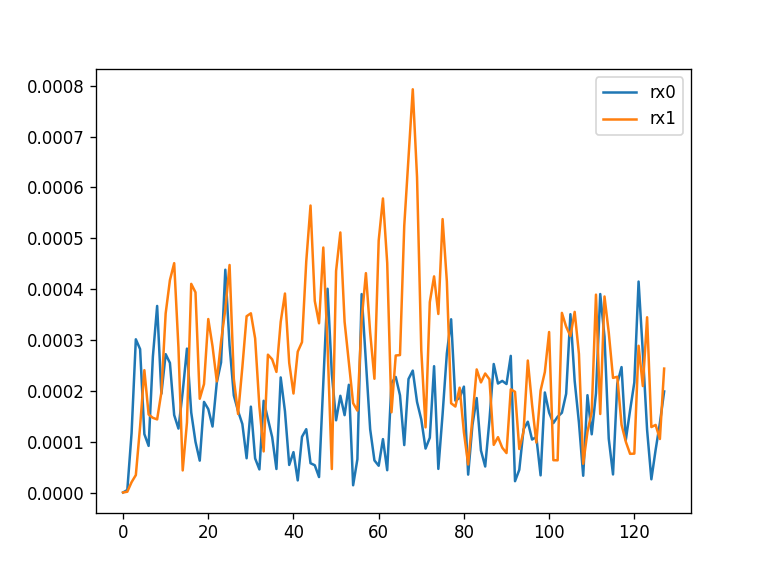
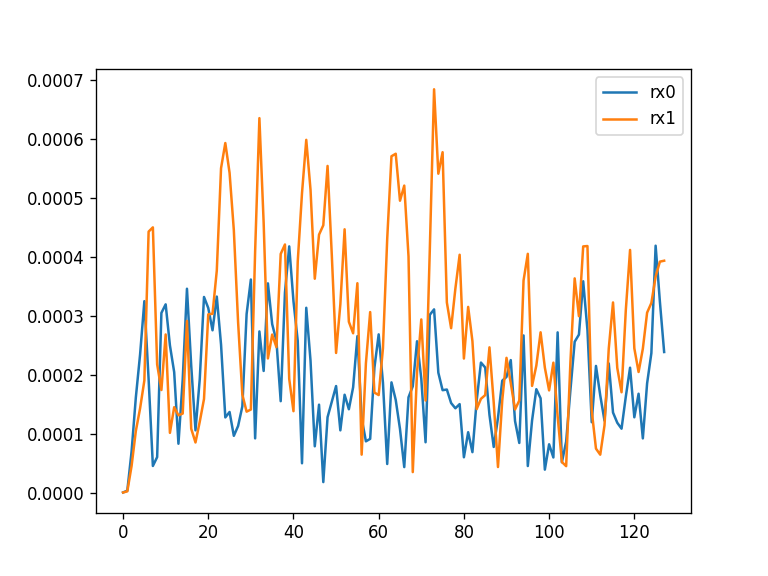
successfully generated trigger wave

diff --git a/marcos_client/experimentController.py b/marcos_client/experimentController.py
@@ -143,7 +143,7 @@ class ExperimentController(exp.Experiment):
     def compile(self, trig_delay=None, trig_length=None):
         if self._seq is None or 'trig_out' not in self._seq:
             exp.Experiment.add_flodict(self, {
-                'trig_out': (np.array([trig_delay, trig_delay + trig_length, trig_delay + trig_length *2, trig_delay + trig_length *3, ]), np.array([1, 0, 1, 0]))
+                'trig_out': (np.array([trig_delay, trig_delay + trig_length ]), np.array([1, 0]))
             })
         print(self._seq)
         super().compile()
